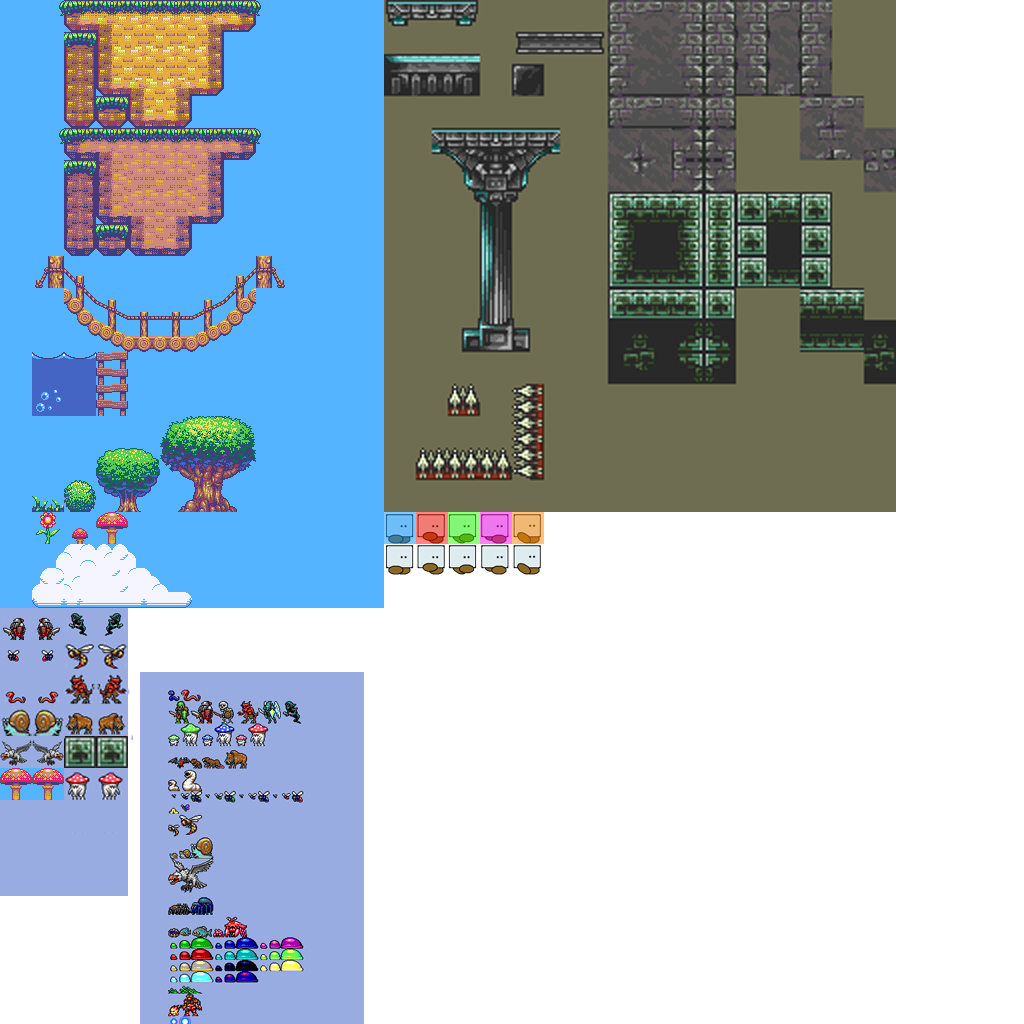
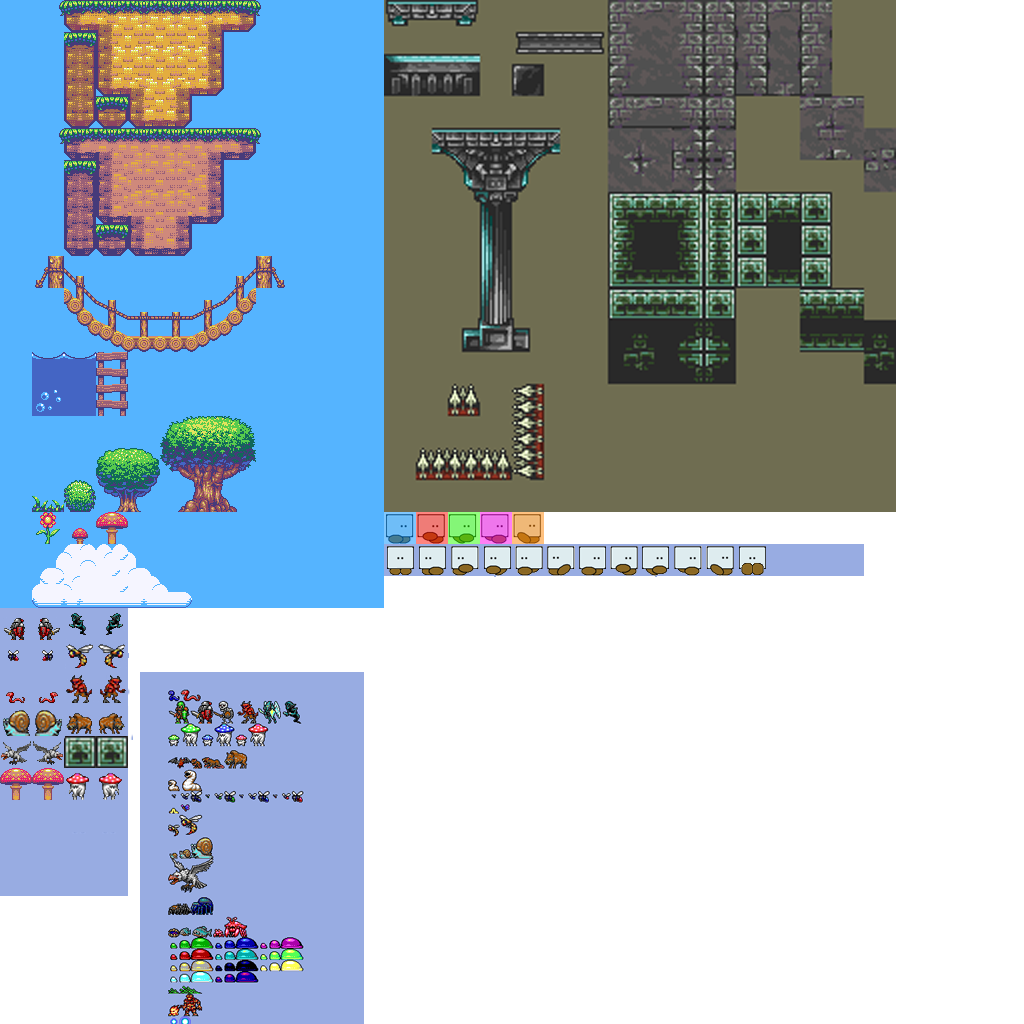
Updated tile map to be cleaner and include animations

Changed region(s): [[0.375, 0.5312, 0.8438, 0.5625], [0.0, 0.7188, 0.0625, 0.7812], [0.0625, 0.6562, 0.125, 0.6875]]

diff --git a/Epheremal/Epheremal/Epheremal/Model/Level.cs b/Epheremal/Epheremal/Epheremal/Model/Level.cs
@@ -11,7 +11,6 @@ using System.Diagnostics;
 using Epheremal.Model.Interactions;
 using Epheremal.Model.Levels;
 using Epheremal.Model.Behaviours;
-using Epheremal.Model.Levels;
 
 namespace Epheremal.Model
 {
